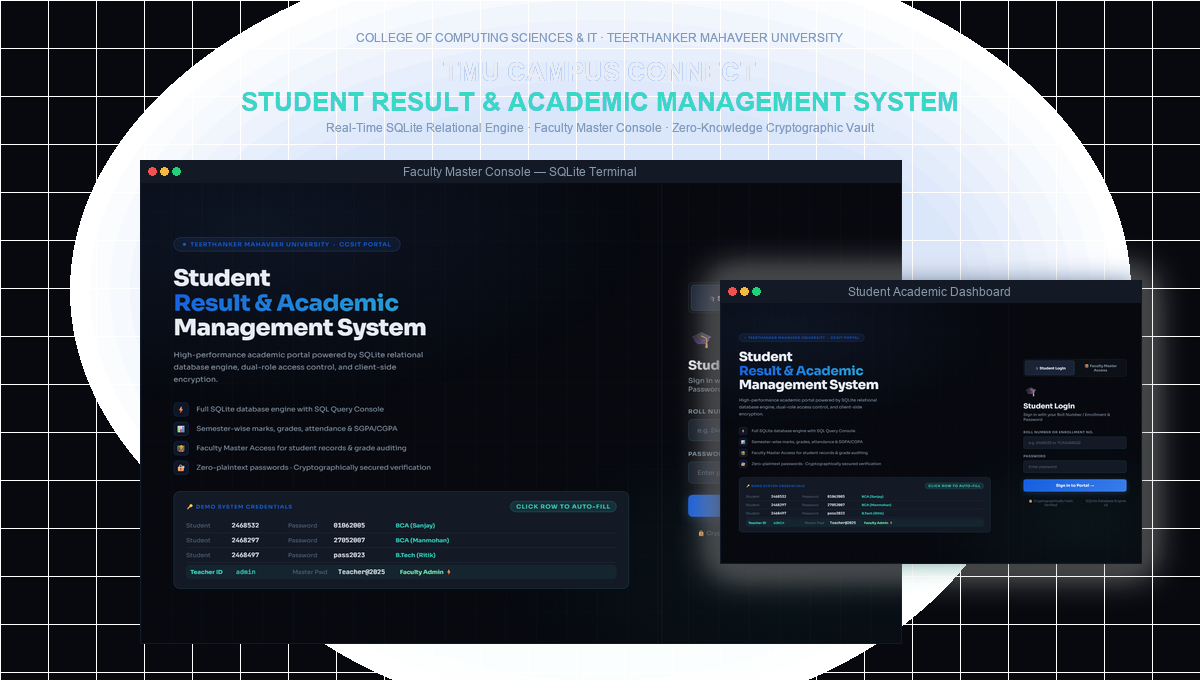
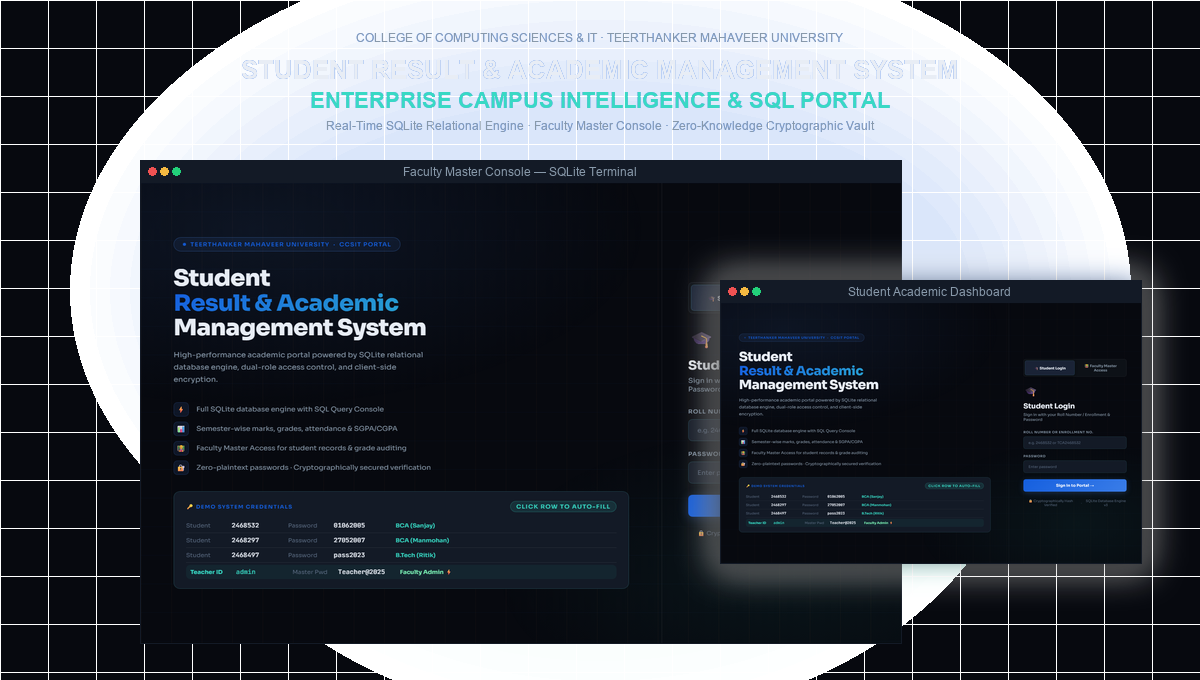
chore: Update branding name strictly to Student Result & Academic Management System

Changed region(s): [[0.185, 0.0926, 0.8017, 0.2162]]

diff --git a/README.md b/README.md
@@ -1,11 +1,11 @@
 <div align="center">
 
-  <img src="https://raw.githubusercontent.com/Tushar-Chauhan9627/Student-Result-Management-System/main/assets/mockups/hero_banner.png" alt="TMU CampusConnect Banner" width="100%" />
+  <img src="https://raw.githubusercontent.com/Tushar-Chauhan9627/Student-Result-Management-System/main/assets/mockups/hero_banner.png" alt="Student Result & Academic Management System Banner" width="100%" />
 
   <br/><br/>
 
-  <h1>TMU CampusConnect 🎓</h1>
-  <p><strong>Next-Gen, High-Performance Student Result &amp; Academic Management Portal</strong></p>
+  <h1>Student Result &amp; Academic Management System 🎓</h1>
+  <p><strong>Next-Gen, High-Performance Academic Intelligence &amp; Result Management Portal</strong></p>
   <p><em>Engineered for College of Computing Sciences &amp; Information Technology (CCSIT), Teerthanker Mahaveer University</em></p>
 
   <p>
@@ -32,9 +32,9 @@
 
 ## 📌 Overview
 
-**TMU CampusConnect** is an enterprise-grade academic intelligence and Student Result Management System (SRMS) engineered for **Teerthanker Mahaveer University (TMU)**. Developed at the College of Computing Sciences and Information Technology (CCSIT), it provides a unified, secure portal for students and faculty.
+**Student Result & Academic Management System** is an enterprise-grade academic intelligence and examination portal engineered for **Teerthanker Mahaveer University (TMU)**. Developed at the College of Computing Sciences and Information Technology (CCSIT), it provides a unified, secure portal for students and faculty.
 
-Unlike conventional university web portals that suffer from bloated server roundtrips, fragmented PDF records, and insecure client-side implementations, TMU CampusConnect couples an **embedded in-memory SQLite relational engine (via WebAssembly)** with a dual-role access architecture:
+Unlike conventional university web portals that suffer from bloated server roundtrips, fragmented PDF records, and insecure client-side implementations, this system couples an **embedded in-memory SQLite relational engine (via WebAssembly)** with a dual-role access architecture:
 1. **Student Academic Portal:** Private dashboard for semester grades, SGPA/CGPA progression, fee transaction ledgers, and attendance metrics.
 2. **Faculty Master Console:** Comprehensive administrative control with real-time student filtering across 1,461 records, instant grade editing, and a live **Interactive SQL Terminal** for complex academic queries.
 
@@ -51,7 +51,7 @@ Universities face critical bottlenecks when deploying and scaling legacy result 
 
 ## 💡 The Solution
 
-TMU CampusConnect resolves these challenges through a modern cryptographic and localized data architecture:
+The **Student Result & Academic Management System** resolves these challenges through a modern cryptographic and localized data architecture:
 
 - **Zero-Knowledge Cryptographic Hashing:** Passwords are never stored in plaintext anywhere. Verification uses per-user salted SHA-256 hashes computed via the browser's hardware-accelerated Web Crypto API.
 - **Embedded WebAssembly SQLite Engine:** The entire relational database runs locally in the client or server, executing complex relational joins, aggregations, and filters at sub-millisecond speeds.
@@ -126,11 +126,11 @@ flowchart TD
 ## 🔑 Live Demo & Access Credentials
 
 The portal is deployed live and fully functional on **GitHub Pages**:
-👉 **[Launch TMU CampusConnect Portal](https://tushar-chauhan9627.github.io/Student-Result-Management-System/)**
+👉 **[Launch Student Result & Academic Management System](https://tushar-chauhan9627.github.io/Student-Result-Management-System/)**
 
 ### Demo Credentials
 
-| Role | Username / Identifier | Password | Description | Quick Demo Link |
+| Role | Username / Identifier | Password | Access Details | Direct Quick-Link |
 | :--- | :--- | :--- | :--- | :--- |
 | **Faculty Master** | `admin` | `Teacher@2025` | Master access to all 1,461 student files &amp; SQL Terminal | [Open Faculty Master](https://tushar-chauhan9627.github.io/Student-Result-Management-System/#demo-admin) |
 | **Student** | `2468532` | `01062005` | Sanjay Kumar (B.C.A., Section C) | [Open Sanjay File](https://tushar-chauhan9627.github.io/Student-Result-Management-System/#demo-student) |
